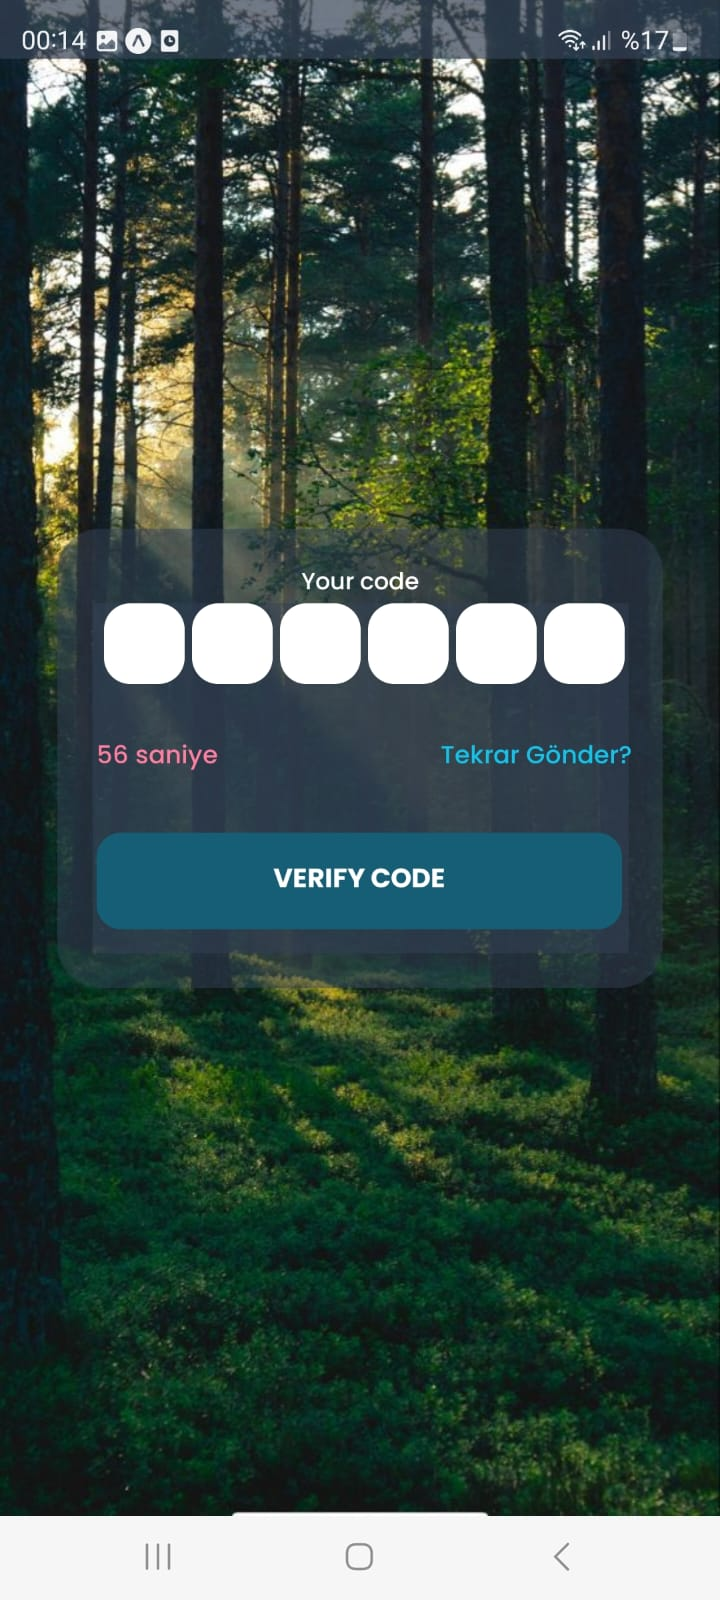
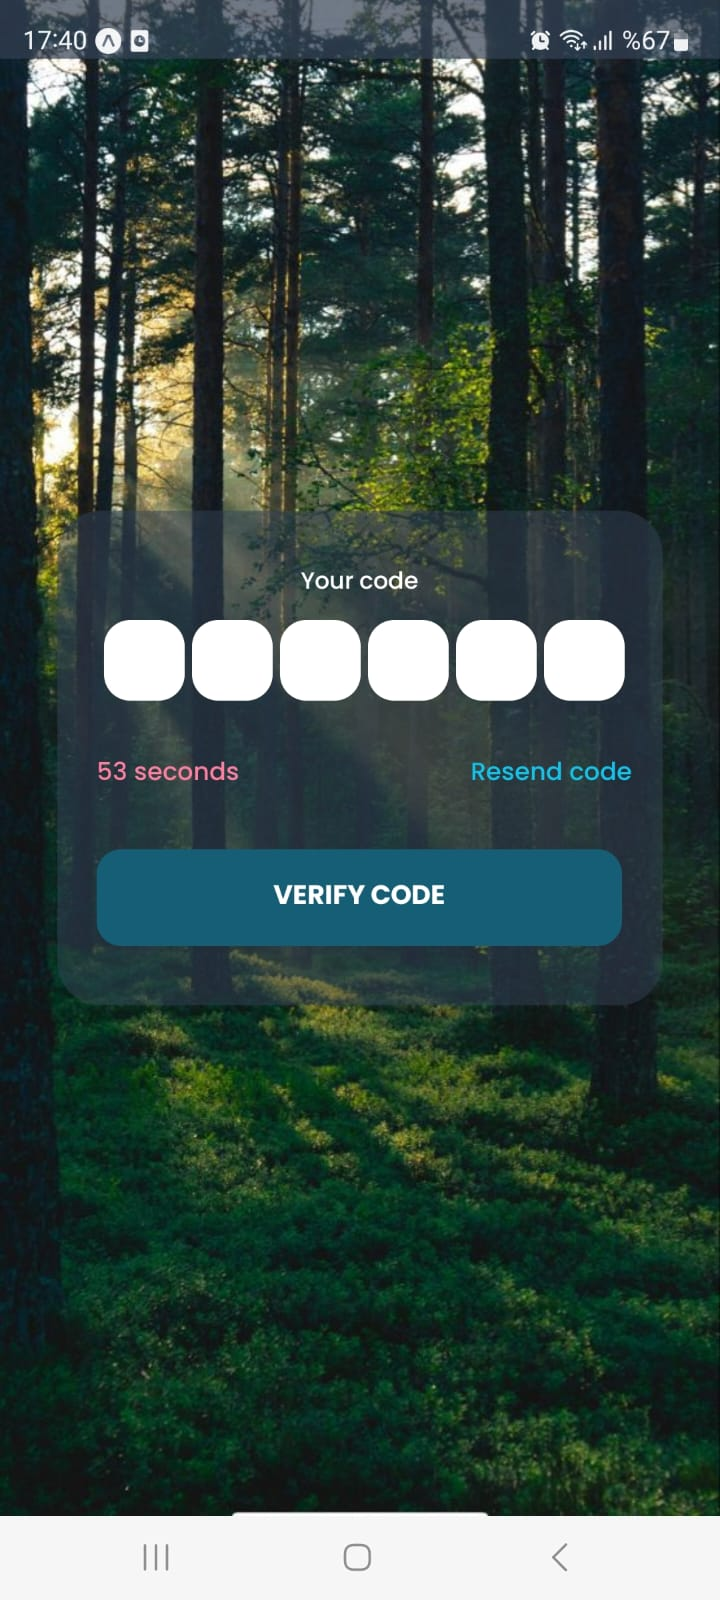
RGBA opacity differences fixed.

diff --git a/phoneAuth/src/components/enterNumber/enterNumber.style.js b/phoneAuth/src/components/enterNumber/enterNumber.style.js
@@ -7,17 +7,14 @@ export default StyleSheet.create({
     backgroundColor: 'rgba(51, 65, 85, .5)',
     borderRadius: 25,
     alignItems: 'center',
+    justifyContent: 'space-evenly',
   },
   sectionTitle: {
     fontSize: 30,
     color: 'white',
-    position: 'absolute',
-    top: 24,
   },
   sectionBottomView: {
-    position: 'absolute',
-    left: 30,
-    top: 106,
+    alignItems: 'center',
   },
   sectionBottomTitle: {
     fontSize: 13,
@@ -29,14 +26,8 @@ export default StyleSheet.create({
     paddingBottom: 18.18,
     paddingLeft: 22.73,
     borderRadius: 15,
-    position: 'absolute',
-    top: 142,
   },
   textInput: {
     width: 272.73,
-  },
-  buttonView: {
-    position: 'absolute',
-    top: 224,
   },
 });

diff --git a/phoneAuth/src/components/enterDigitUnits/enterDigitUnits.js b/phoneAuth/src/components/enterDigitUnits/enterDigitUnits.js
@@ -203,11 +203,11 @@ const EnterDigitUnits = ({id, phoneNumber}) => {
       </View>
       <View style={styles.options}>
         <Text style={[styles.timeDownText, {fontFamily: 'Poppins_500Medium'}]}>
-          {timeDown} saniye
+          {timeDown} seconds
         </Text>
         <TouchableOpacity onPress={reSendCode}>
           <Text style={[styles.reSendText, {fontFamily: 'Poppins_500Medium'}]}>
-            Tekrar Gönder?
+            Resend code
           </Text>
         </TouchableOpacity>
       </View>

diff --git a/phoneAuth/src/components/enterCode/enterCode.style.js b/phoneAuth/src/components/enterCode/enterCode.style.js
@@ -5,7 +5,10 @@ export default StyleSheet.create({
     backgroundColor: 'rgba(51, 65, 85, .5)',
     borderRadius: 25,
     alignItems: 'center',
-    justifyContent: 'center',
+    justifyContent: 'space-evenly',
     padding: 20,
+  },
+  sectionBottomView: {
+    padding: 10,
   },
 });

diff --git a/phoneAuth/src/components/enterDigitUnits/enterDigitUnits.style.js b/phoneAuth/src/components/enterDigitUnits/enterDigitUnits.style.js
@@ -7,7 +7,6 @@ export default StyleSheet.create({
     width: 306,
     height: 200,
     justifyContent: 'space-around',
-    backgroundColor: 'rgba(51, 65, 85, .5)',
   },
   textInputView: {
     width: 46,
